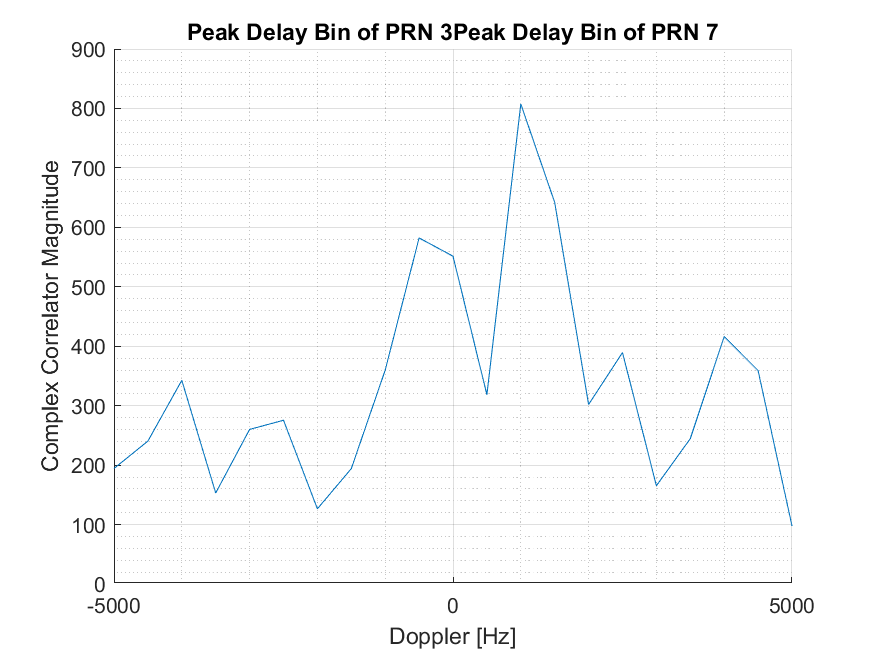
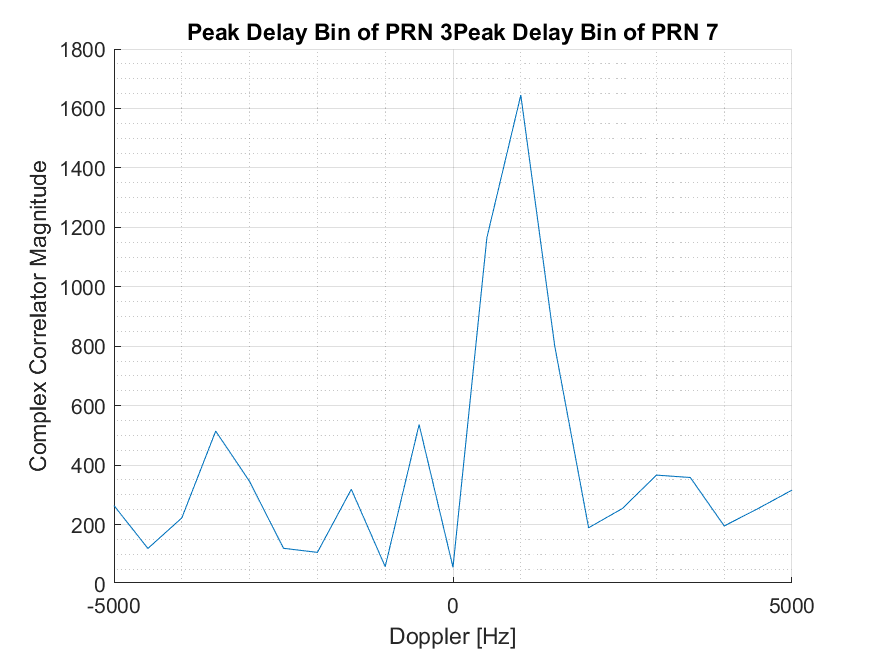
Big delay vec

diff --git a/ASEN5090_HW9_script.m b/ASEN5090_HW9_script.m
@@ -149,7 +149,7 @@ for n = 1:length(t_vec)
 end
 
 
-delay_vec = 0:1022;
+delay_vec = 0:length(t_vec);
 
 int_time = 2; % ms
 dstep = 1000/int_time;
